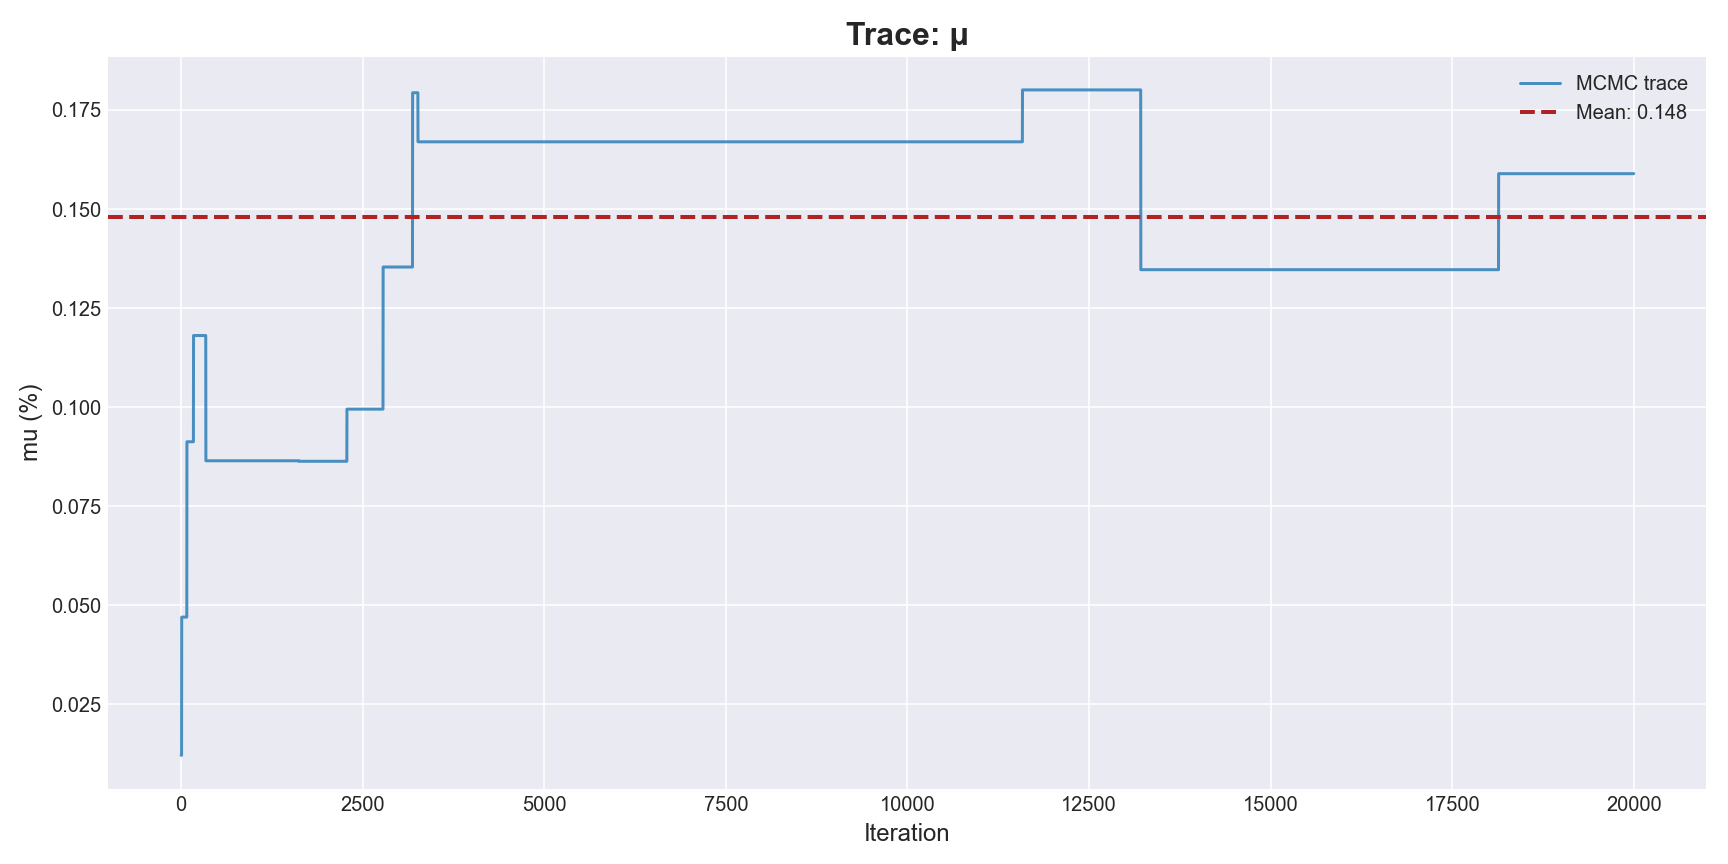
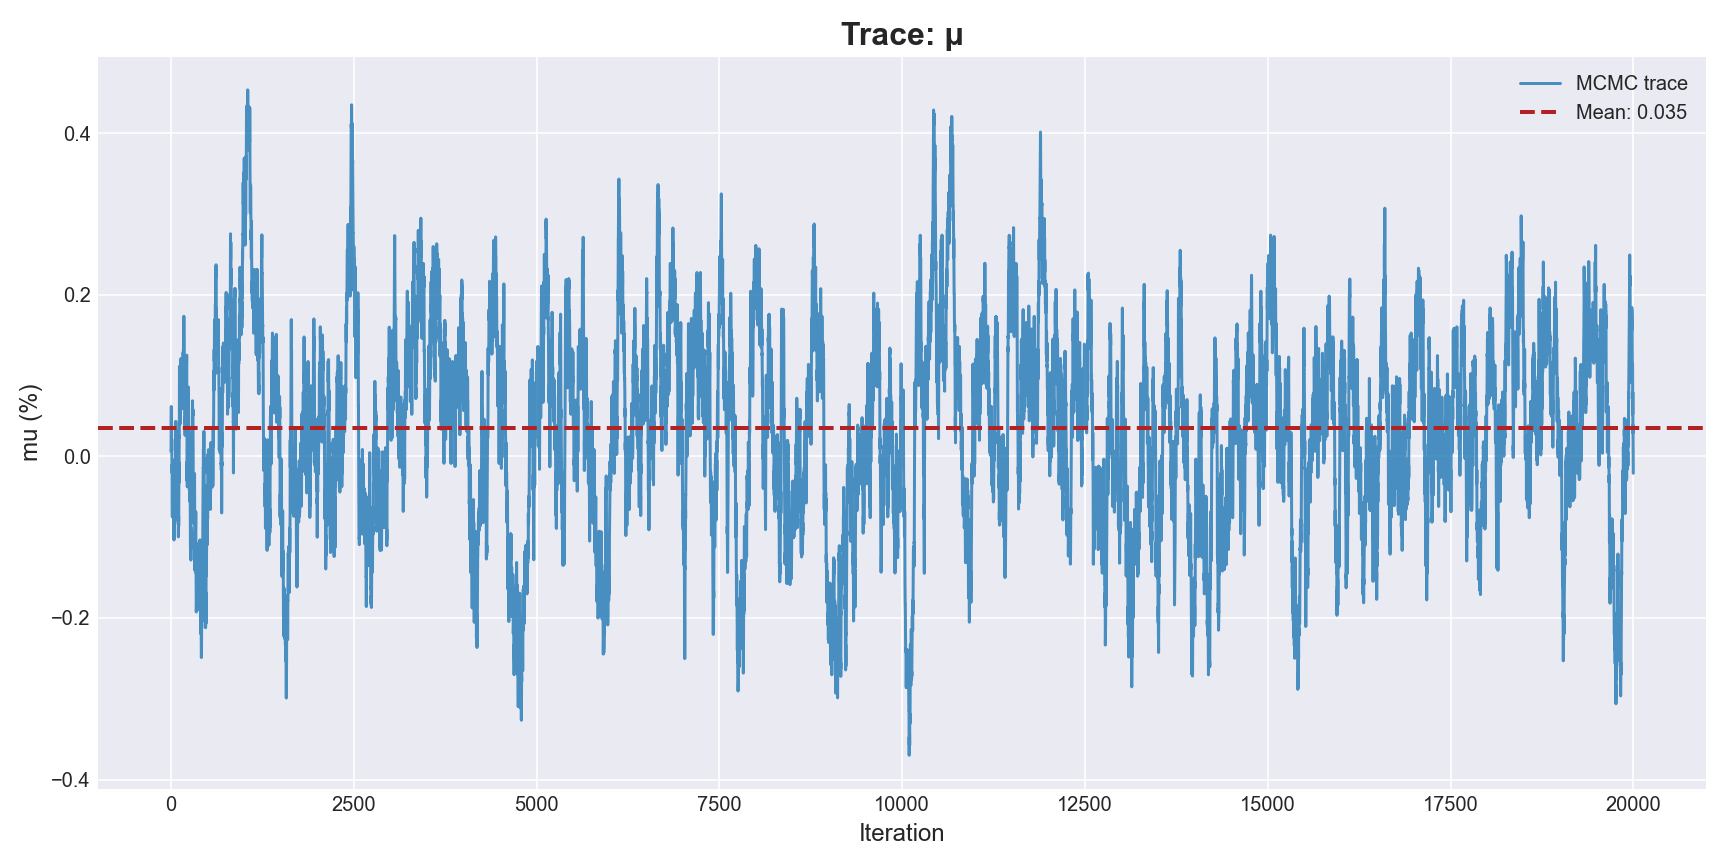
final version

diff --git a/t_student_mcmc_tesla.py b/t_student_mcmc_tesla.py
@@ -18,9 +18,9 @@ N_ITER    = 20000  # MCMC 总迭代次数
 BURN_FRAC = 0.5    # Burn-in 比例
 
 # MH 步长 (需要根据接受率进行调整)
-STEP_MU   = 0.04
-STEP_LOGS = 0.05
-STEP_ETA  = 0.05
+STEP_MU   = 0.02
+STEP_LOGS = 0.02
+STEP_ETA  = 0.08
 
 SEED = 42 # 随机种子，保证结果可复现
 
@@ -90,13 +90,30 @@ def loglik_normal_given_lambda(theta, r, lam):
     ll += -0.5 * np.sum(((r - mu) ** 2) / var_t)
     return ll
 
+def loglik_lambda_given_nu(lam, nu):
+    """
+    计算 log P(lambda | nu)
+    lambda_t ~ Gamma(shape=nu/2, rate=nu/2)
+    """
+    shape = nu / 2.0
+    rate  = nu / 2.0 # scipy notation: scale = 1/rate
+    # 使用 scipy 的 logpdf 求和，或者手写公式
+    return np.sum(stats.gamma.logpdf(lam, a=shape, scale=1.0/rate))
+
 def logpost_hier(theta, r, lam, tau_mu, c_sigma, mean_nu_star):
-    """
-    层级模型下的对数后验：
-      log posterior = loglik_normal_given_lambda + logprior
-    注意：这里的似然使用了当前 λ 序列（在每轮迭代最先用 Gibbs 更新得到）
-    """
-    return loglik_normal_given_lambda(theta, r, lam) + logprior(theta, tau_mu, c_sigma, mean_nu_star)
+    mu, log_sigma, eta = theta
+    nu = 2.0 + np.exp(eta)
+    
+    # 1. log P(r | lam, mu, sigma)
+    ll_r = loglik_normal_given_lambda(theta, r, lam)
+    
+    # 2. log P(theta)
+    lp_theta = logprior(theta, tau_mu, c_sigma, mean_nu_star)
+    
+    # 3. ===【新增】=== log P(lam | nu)
+    ll_lam = loglik_lambda_given_nu(lam, nu)
+    
+    return ll_r + lp_theta + ll_lam
 
 # ---------- 关键：Gibbs 抽样 λ_t ----------
 def gibbs_sample_lambda(r, mu, sigma, nu):
@@ -123,7 +140,7 @@ def mwg_sampler(r,
                 n_iter=15000, burn_frac=0.5,
                 step_mu=0.05, step_logsig=0.05, step_eta=0.05,
                 tau_mu=0.5, c_sigma=1.5, mean_nu_star=30.0,
-                init=None, random_seed=42):
+                init=None, random_seed=42, thin =10):
     """
     Metropolis-within-Gibbs（MwG）：
       1) Gibbs：给定 (mu, sigma, nu) 对整列 λ 采样（可解析，必收）
@@ -160,6 +177,7 @@ def mwg_sampler(r,
         sigma = np.exp(log_sigma)
         nu    = 2.0 + np.exp(eta)
         lam   = gibbs_sample_lambda(r, mu, sigma, nu)
+        lp_cur = logpost_hier(theta, r, lam, tau_mu, c_sigma, mean_nu_star)
 
         # (B) 再对 θ 的三个坐标做 MH 更新（与原来相同，只是似然换成用了 lam 的 normal 似然）
         for j in range(3):
@@ -179,13 +197,60 @@ def mwg_sampler(r,
 
     # ------ 返回后验样本与接受率 ------
     burn     = int(burn_frac * n_iter)
-    post     = chain[burn:, :]
+    # Thinning for better ACF
+    post     = chain[burn::thin, :]
     acc_rate = acc / n_iter
     return post, acc_rate, chain
 
+def calculate_var_es(mu_samps, sigma_samps, nu_samps, alpha=0.05):
+    """
+    计算 Value at Risk (VaR) 和 Expected Shortfall (ES)。
+    基于 t-分布的解析公式计算每组参数下的理论 VaR 和 ES。
+    
+    参数:
+    alpha: 风险水平 (默认 0.05，即 95% 置信度)
+           注意：这里计算的是左尾 (Left Tail)，即亏损方向。
+           
+    返回:
+    var_samps: VaR 的后验样本 (通常为负值，表示收益率的下限)
+    es_samps:  ES 的后验样本 (通常为更负的值，表示超过 VaR 后的平均亏损)
+    """
+    n = len(mu_samps)
+    var_samps = np.zeros(n)
+    es_samps = np.zeros(n)
+    
+    # 遍历所有后验样本
+    for i in range(n):
+        mu  = mu_samps[i]
+        sig = sigma_samps[i]
+        nu  = nu_samps[i]
+        
+        # 1. 计算 VaR
+        # VaR_alpha 就是 t 分布的 alpha 分位数
+        # stats.t.ppf 是累积分布函数的逆函数 (Percent Point Function)
+        q_std = stats.t.ppf(alpha, df=nu) # 标准 t 分布的分位数
+        var_samps[i] = mu + sig * q_std
+        
+        # 2. 计算 ES (Expected Shortfall)
+        # ES_alpha = E[R | R < VaR]
+        # 公式来源: McNeil, Frey, & Embrechts (2005) - Quantitative Risk Management
+        # 对于 X ~ t(nu, mu, sigma^2):
+        # ES = mu + sigma * ES_standard(nu, alpha)
+        # 其中 ES_standard = - ( (nu + q^2) / (nu - 1) ) * ( pdf(q) / alpha )
+        
+        if nu <= 1:
+            # 如果自由度 <= 1，期望不存在 (Cauchy 分布没有均值)
+            es_samps[i] = -np.inf 
+        else:
+            pdf_q = stats.t.pdf(q_std, df=nu) # 标准 t 分布在分位数处的密度值
+            es_std_term = - ((nu + q_std**2) / (nu - 1)) * (pdf_q / alpha)
+            es_samps[i] = mu + sig * es_std_term
+            
+    return var_samps, es_samps
+
 
 # --------------------------
-# 5) 便捷图表函数 (美化版)
+# 5) 便捷图表函数
 # --------------------------
 import matplotlib.pyplot as plt
 
@@ -432,6 +497,76 @@ def analyze_and_plot_results(r, post, chain, acc_rate, sampler_name, hyper_param
         fh.write("Acceptance rates (mu, log_sigma, eta): " + ", ".join(f"{x:.3f}" for x in acc_rate) + "\n")
         fh.write("ESS (mu, sigma, nu): " + ", ".join(f"{x:.1f}" for x in ess_vals) + "\n")
         fh.write(f"Summary CSV: {summary_path}\n")
+        
+    # ==========================================
+    # [新增] 风险指标计算 (VaR & ES)
+    # ==========================================
+    # 设定风险水平，比如 5% (0.05) 或 1% (0.01)
+    ALPHA = 0.05 
+    
+    print(f"\nCalculating VaR and ES at alpha={ALPHA}...")
+    var_chain, es_chain = calculate_var_es(mu_samps, sigma_samps, nu_samps, alpha=ALPHA)
+    
+    # 清洗数据：如果有 nu <= 1 导致的 -inf，将其过滤掉或单独报告
+    valid_mask = np.isfinite(es_chain)
+    if np.sum(~valid_mask) > 0:
+        print(f"Warning: {np.sum(~valid_mask)} samples had nu <= 1 (ES undefined).")
+        var_chain = var_chain[valid_mask]
+        es_chain  = es_chain[valid_mask]
+    
+    # 计算统计量
+    var_mean = np.mean(var_chain)
+    var_lower = np.percentile(var_chain, 2.5)
+    var_upper = np.percentile(var_chain, 97.5)
+    
+    es_mean = np.mean(es_chain)
+    es_lower = np.percentile(es_chain, 2.5)
+    es_upper = np.percentile(es_chain, 97.5)
+    
+    # 打印结果到控制台
+    print("-" * 40)
+    print(f"Risk Measures (alpha={ALPHA*100}%) Summary:")
+    print("-" * 40)
+    print(f"Value-at-Risk (VaR):")
+    print(f"  Mean Estimate: {var_mean:.4f}")
+    print(f"  95% CI:       [{var_lower:.4f}, {var_upper:.4f}]")
+    print(f"\nExpected Shortfall (ES):")
+    print(f"  Mean Estimate: {es_mean:.4f}")
+    print(f"  95% CI:       [{es_lower:.4f}, {es_upper:.4f}]")
+    print("-" * 40)
+    
+    # 保存结果到 CSV
+    risk_df = pd.DataFrame({
+        "Metric": ["VaR", "ES"],
+        "Mean": [var_mean, es_mean],
+        "CI_Lower_2.5": [var_lower, es_lower],
+        "CI_Upper_97.5": [var_upper, es_upper]
+    })
+    risk_out_path = os.path.join(OUT_DIR, "risk_measures.csv")
+    risk_df.to_csv(risk_out_path, index=False)
+    print(f"Risk measures saved to: {risk_out_path}")
+    
+    # (可选) 绘制 VaR 和 ES 的后验分布图
+    with plt.style.context('seaborn-v0_8-darkgrid'):
+        fig, axes = plt.subplots(1, 2, figsize=(14, 6))
+        
+        # VaR 直方图
+        axes[0].hist(var_chain, bins=50, density=True, alpha=0.7, color='steelblue')
+        axes[0].axvline(var_mean, color='red', linestyle='--', label=f'Mean: {var_mean:.3f}')
+        axes[0].set_title(f"Posterior Distribution of VaR ({ALPHA*100}%)")
+        axes[0].set_xlabel("Return Level")
+        axes[0].legend()
+        
+        # ES 直方图
+        axes[1].hist(es_chain, bins=50, density=True, alpha=0.7, color='orange')
+        axes[1].axvline(es_mean, color='red', linestyle='--', label=f'Mean: {es_mean:.3f}')
+        axes[1].set_title(f"Posterior Distribution of ES ({ALPHA*100}%)")
+        axes[1].set_xlabel("Return Level")
+        axes[1].legend()
+        
+        plt.tight_layout()
+        plt.savefig(os.path.join(OUT_DIR, "risk_posterior.png"), dpi=144)
+        plt.close(fig)
 
     print("Posterior summaries and diagnostics saved to the outputs/ folder.")
 
